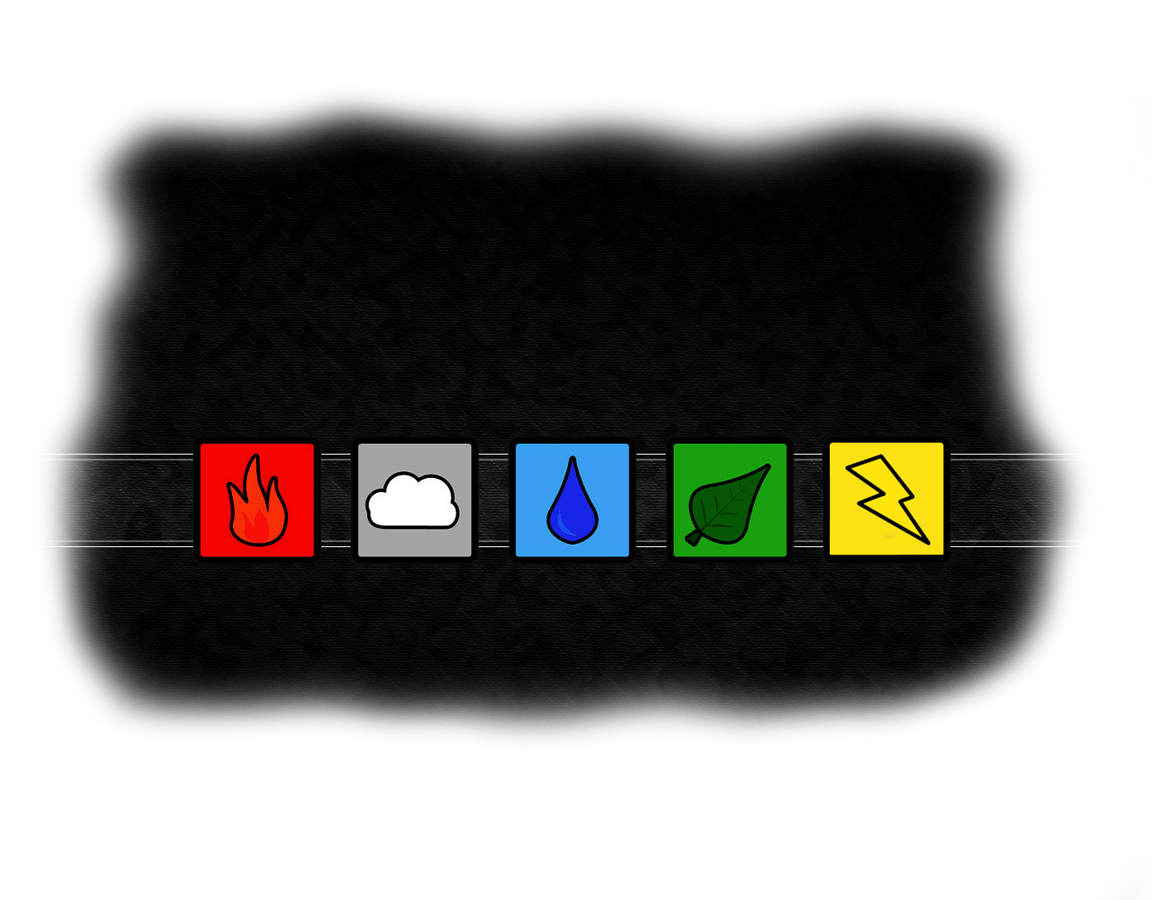
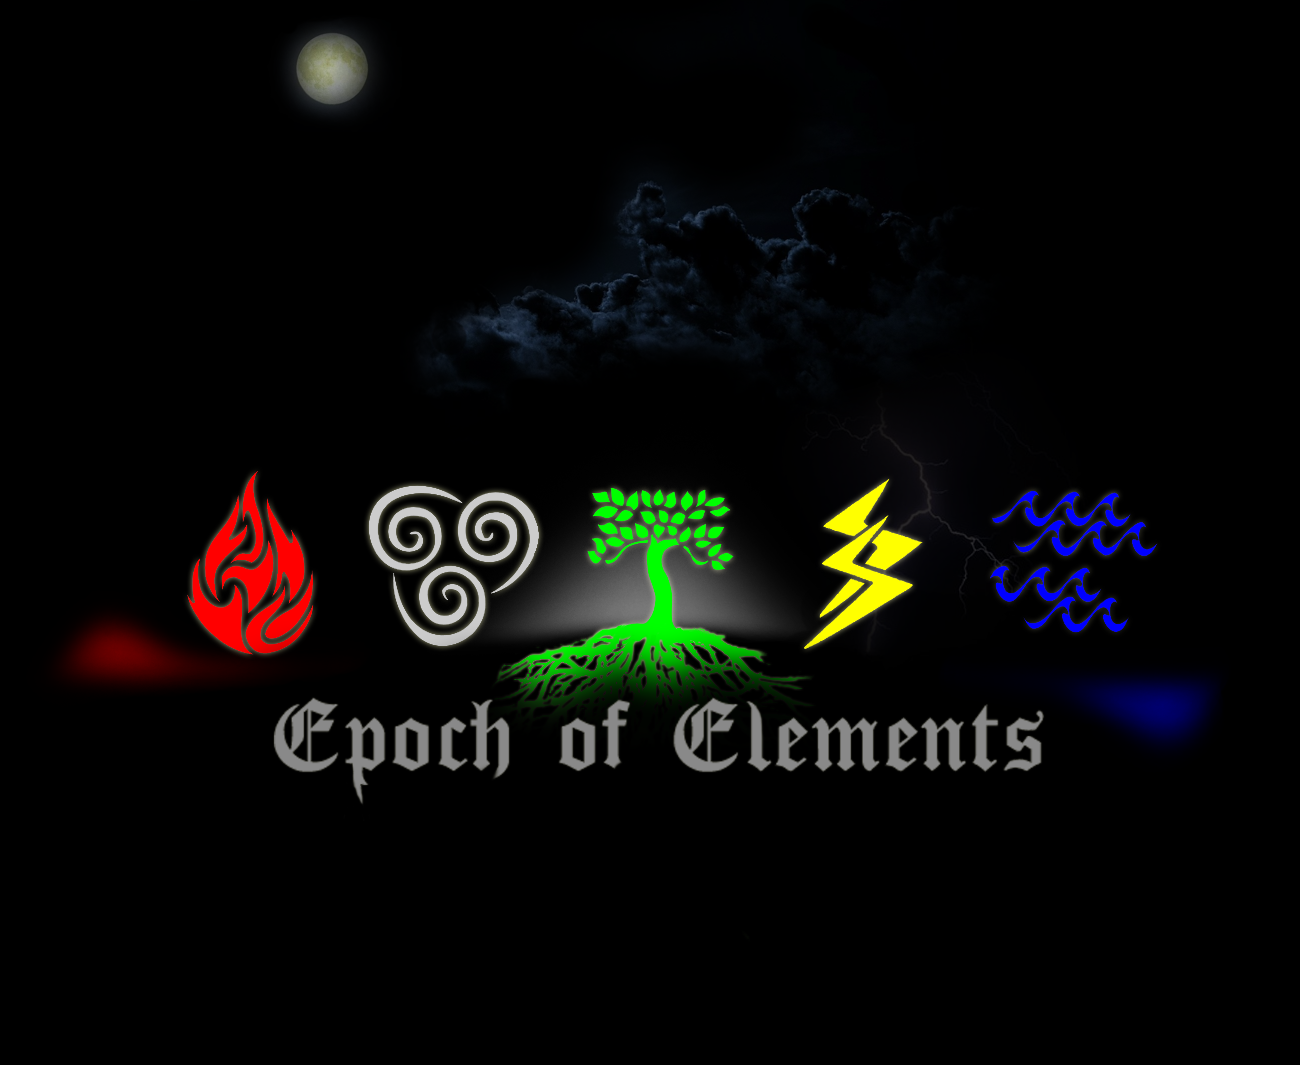
menuscreen

diff --git a/Game/MainScreen/Menus.js b/Game/MainScreen/Menus.js
@@ -7,7 +7,10 @@ function CreateMenus(Width, Height) {
 	  //Rectangle dynamic adjustments
 	  var newwidth = Canvas.width * 0.243;
 	  var newheight = Canvas.height * 0.403;
-	  var newyh = Canvas.height * 0.03; //backgroundbox /end
+	  
+	  var newxw = (Canvas.width - newwidth) * 0.5; //posx
+	  var newyh = Canvas.height * 0.05; //posy
+	  
 	  var MenuY = Canvas.height * 0.069;
 	  var MenuHeight = Canvas.height * 0.069;
 	  var MenuYSpace = Canvas.height * 0.093; //menuboxes /end
@@ -16,39 +19,41 @@ function CreateMenus(Width, Height) {
 	// this.stringT = { x: "lala", y: "blahblah", string: "" };
 	// this.stringT.string = this.stringT.x + " " + this.stringT.y;
 	  
-	 
+	 this.color1 = "rgba(120, 20, 20, 0.5)"; //normal
+	 this.color2 = "rgba(238, 0, 0, 0.8)"; //highlight
 	  
 	  //Create rectangles
-	  this.StartOptionBox = new Rectangle(Canvas.width * 0.5 - newwidth * 0.5, newyh, newwidth, newheight); this.StartOptionBox.boxColor = "rgba(10, 10, 10, 0.4)"
+	  this.StartOptionBox = new Rectangle(newxw, newyh, newwidth, newheight); this.StartOptionBox.boxColor = "rgba(50, 50, 50, 0.2)"
 
-	  this.CreateBox = new Rectangle(this.StartOptionBox.x, this.StartOptionBox.y + MenuYSpace * 1 - MenuY, this.StartOptionBox.width, MenuHeight); this.CreateBox.boxColor = "rgba(100, 20, 20, 0.9)";
-	  this.FindBox = new Rectangle(this.StartOptionBox.x, this.StartOptionBox.y + MenuYSpace * 2 - MenuY, this.StartOptionBox.width, MenuHeight);  this.FindBox.boxColor = "rgba(100, 20, 20, 0.9)";
-	  this.quickGameBox = new Rectangle(this.StartOptionBox.x, this.StartOptionBox.y + MenuYSpace * 3 - MenuY, this.StartOptionBox.width, MenuHeight);  this.quickGameBox.boxColor = "rgba(100, 20, 20, 0.9)";
-	  this.WebsiteBox = new Rectangle(this.StartOptionBox.x, this.StartOptionBox.y + MenuYSpace * 4 - MenuY, this.StartOptionBox.width, MenuHeight);  this.WebsiteBox.boxColor = "rgba(100, 20, 20, 0.9)";
-	  this.logoutBox = new Rectangle(Canvas.width * 0.9, 1, Canvas.width * 0.1, Canvas.height * 0.05);  this.logoutBox.boxColor = "rgba(100, 20, 20, 0.9)";
+	  this.CreateBox = new Rectangle(this.StartOptionBox.x, this.StartOptionBox.y + MenuYSpace * 1 - MenuY, this.StartOptionBox.width, MenuHeight); this.CreateBox.boxColor =  this.color1
+	  this.FindBox = new Rectangle(this.StartOptionBox.x, this.StartOptionBox.y + MenuYSpace * 2 - MenuY, this.StartOptionBox.width, MenuHeight);  this.FindBox.boxColor =  this.color1
+	  this.quickGameBox = new Rectangle(this.StartOptionBox.x, this.StartOptionBox.y + MenuYSpace * 3 - MenuY, this.StartOptionBox.width, MenuHeight);  this.quickGameBox.boxColor =  this.color1
+	  this.WebsiteBox = new Rectangle(this.StartOptionBox.x, this.StartOptionBox.y + MenuYSpace * 4 - MenuY, this.StartOptionBox.width, MenuHeight);  this.WebsiteBox.boxColor =  this.color1;
+	  this.logoutBox = new Rectangle(Canvas.width * 0.9, 1, Canvas.width * 0.1, Canvas.height * 0.05);  this.logoutBox.boxColor = this.color1;
 	
 	this.tooltipList = new Array();
 	var width = 350;
+	var posX = _.canvas.width * 0.5 - (width) * 0.5 ; posY =  _.canvas.height * 0.5; //           
 	var clr = "`rgba(238, 0, 0, 0.5)`";
 	var clr1 = "`rgba(238, 238, 0, 0.5)`";
 	var clr2 = "`rgba(150, 150, 150, 0.7)`";
-	var tooltipRect = new Rectangle(_.canvas.width * 0.5 - (width) * 0.5, _.canvas.height * 0.5, width, 0);
+	var tooltipRect = new Rectangle(posX, posY, width, 0);
 		var testing = this.quickGameBox.setTooltip(clr + "Find " + clr2 + "a match with another player. ^ ^ " + clr1 + "If a game cannot be found you will host a new game and wait for another player.", width, tooltipRect);
 		 this.tooltipList.push(testing);
 		 
-	var tooltipRect = new Rectangle(_.canvas.width * 0.5 - (width) * 0.5, _.canvas.height * 0.5, width, 180);	 
+	var tooltipRect = new Rectangle(posX, posY, width, 0); 
 		 var testing = this.CreateBox.setTooltip(clr2 +"Create a " + clr + "Single-player " + clr2 + "gameboard with options. ^ ^ " + clr1 + "This is for testing out units and game mechanics.", width, tooltipRect);
 		 this.tooltipList.push(testing);
 		 
-	var tooltipRect = new Rectangle(_.canvas.width * 0.5 - (width) * 0.5, _.canvas.height * 0.5, width, 180);	 
+	var tooltipRect = new Rectangle(posX, posY, width, 0);
 		 var testing = this.FindBox.setTooltip(clr2 + "Enter the " + clr + "Game Lobby " + clr2 + "to join or create specific games. ^ ^ " + clr1 + "Also chat with other players of this Epoch Community!", width, tooltipRect);
 		 this.tooltipList.push(testing);
 	
-	var tooltipRect = new Rectangle(_.canvas.width * 0.5 - (width) * 0.5, _.canvas.height * 0.5, width, 180);
-		 var testing = this.WebsiteBox.setTooltip(clr2 + "This menu will re-direct this page to our " + clr + "Blog|" + clr2 + ". ^ ^ " + clr1 + "TLDR: Where you can read all about the creators, ideas, and making of this Epoch Game!", width, tooltipRect);
+	var tooltipRect = new Rectangle(posX, posY, width, 0);
+		 var testing = this.WebsiteBox.setTooltip(clr2 + "This menu will re-direct this page to our " + clr + "Blog|" + clr2 + ". ^ ^ " + clr1 + "Where you can read all about the creators, ideas, and the making of this Epoch Game!", width, tooltipRect);
 		 this.tooltipList.push(testing);
 		 
-	var tooltipRect = new Rectangle(_.canvas.width * 0.5 - (width) * 0.5, _.canvas.height * 0.5, width, 180);
+	var tooltipRect = new Rectangle(posX, posY, width, 0);
 		  var testing = this.logoutBox.setTooltip(clr + "Change " + clr2 + "your current user-name to another name. ^ ^ " + clr1 + "No signup or register is required!", width, tooltipRect);
 		 this.tooltipList.push(testing);
 	  
@@ -126,7 +131,7 @@ function CreateMenus(Width, Height) {
 		
 		//change all button colors to normal if applicable*
 		if (button != null || this.colorBool == true &&  button == null) {for (var i = 0; i < this.buttonList.length; i++) { 
-		this.buttonList[i].boxColor = "rgba(100, 20, 20, 0.9)"; 
+		this.buttonList[i].boxColor =  this.color1;
 		if (this.buttonList[i].tooltipBox != undefined) { this.buttonList[i].tooltipBox.tooltip = false;}
 		} }
 		
@@ -138,27 +143,27 @@ function CreateMenus(Width, Height) {
 		switch(button) {
 			
 			case "logout":
-			this.logoutBox.boxColor = "rgba(240, 100, 100, 0.9)";
+			this.logoutBox.boxColor = this.color2;
 			this.logoutBox.tooltipBox.tooltip = true;
 			break;
 			
 			case "sandbox":
-			this.CreateBox.boxColor = "rgba(240, 100, 100, 0.9)";
+			this.CreateBox.boxColor = this.color2;
 			this.CreateBox.tooltipBox.tooltip = true;
 			break;
 			
 			case "browse":
-			this.FindBox.boxColor = "rgba(240, 100, 100, 0.9)";
+			this.FindBox.boxColor = this.color2;
 			this.FindBox.tooltipBox.tooltip = true;
 			break;
 			
 			case "quick":
-			this.quickGameBox.boxColor = "rgba(240, 100, 100, 0.9)";
+			this.quickGameBox.boxColor = this.color2;
 			this.quickGameBox.tooltipBox.tooltip = true;
 			break;
 			
 			case "web":
-			this.WebsiteBox.boxColor = "rgba(240, 100, 100, 0.9)";
+			this.WebsiteBox.boxColor = this.color2;
 			this.WebsiteBox.tooltipBox.tooltip = true;
 			break;
 			}
@@ -172,7 +177,7 @@ function CreateMenus(Width, Height) {
 		  
 		    context = document.getElementById('Mycanvas').getContext('2d')
 			
-			context.drawImage(Images[0],0 ,Canvas.height * 0.34 ,Canvas.width, Canvas.height);
+			context.drawImage(Images[0], (_.canvas.width - 955) * 0.5 , _.canvas.height - 560 ,955, 745);
 			 //this.stringT = { blah: "lala", string: "ooh " + blah };
 			// context.fillText(this.stringT.string, 400, 400);
 			//this.stringT.draw();
